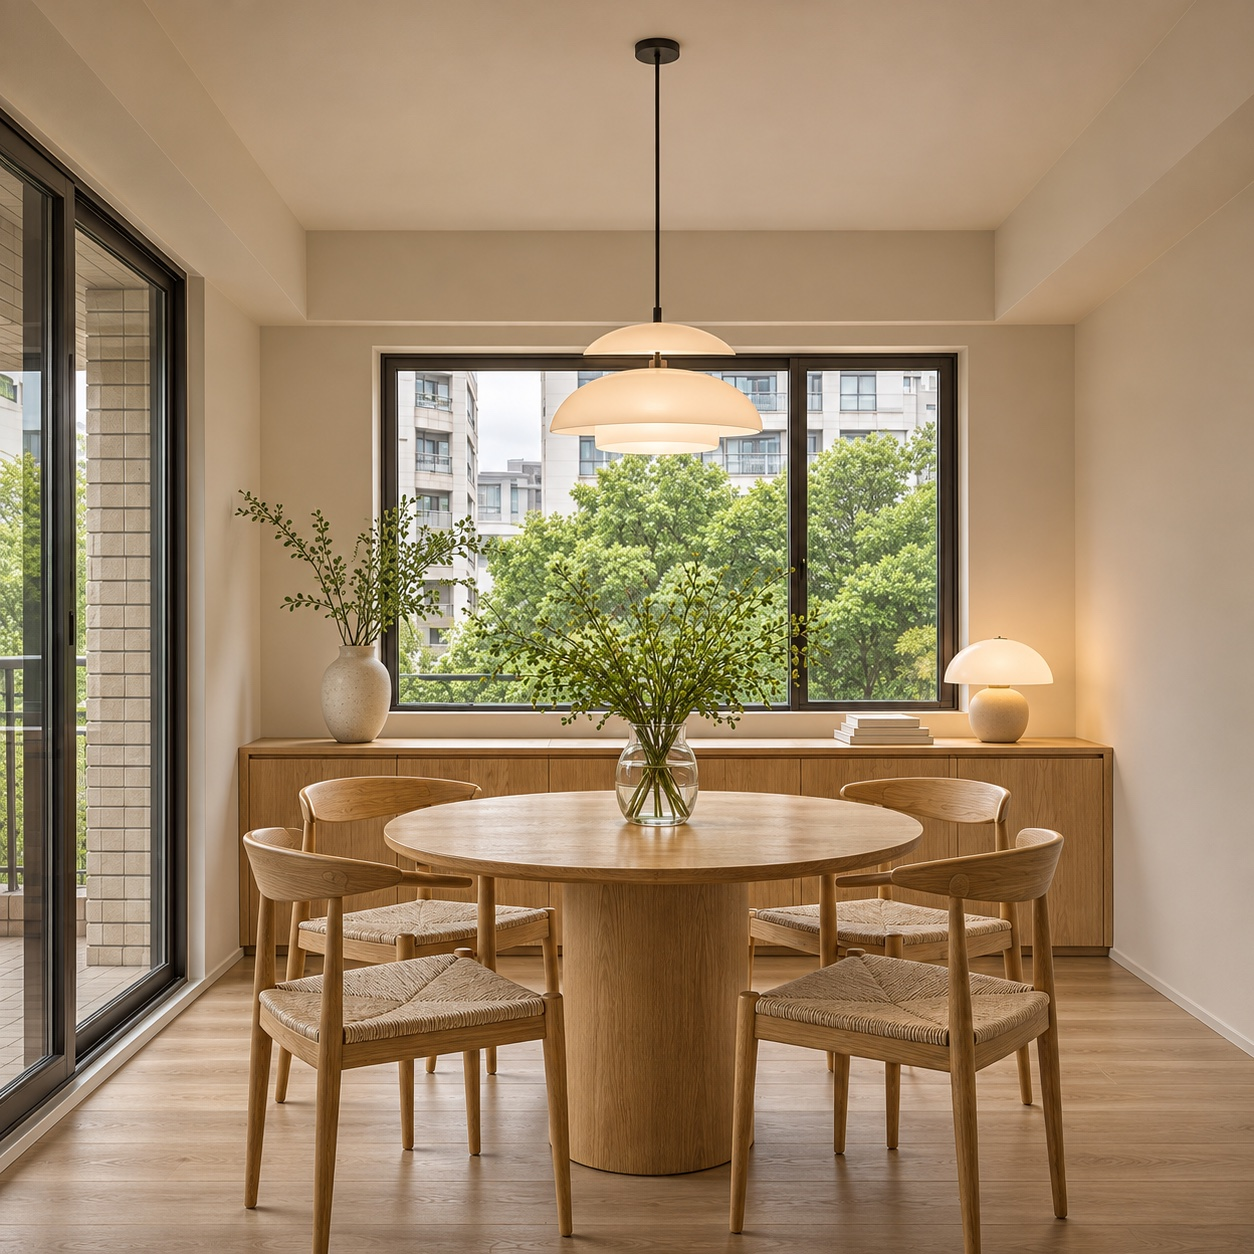
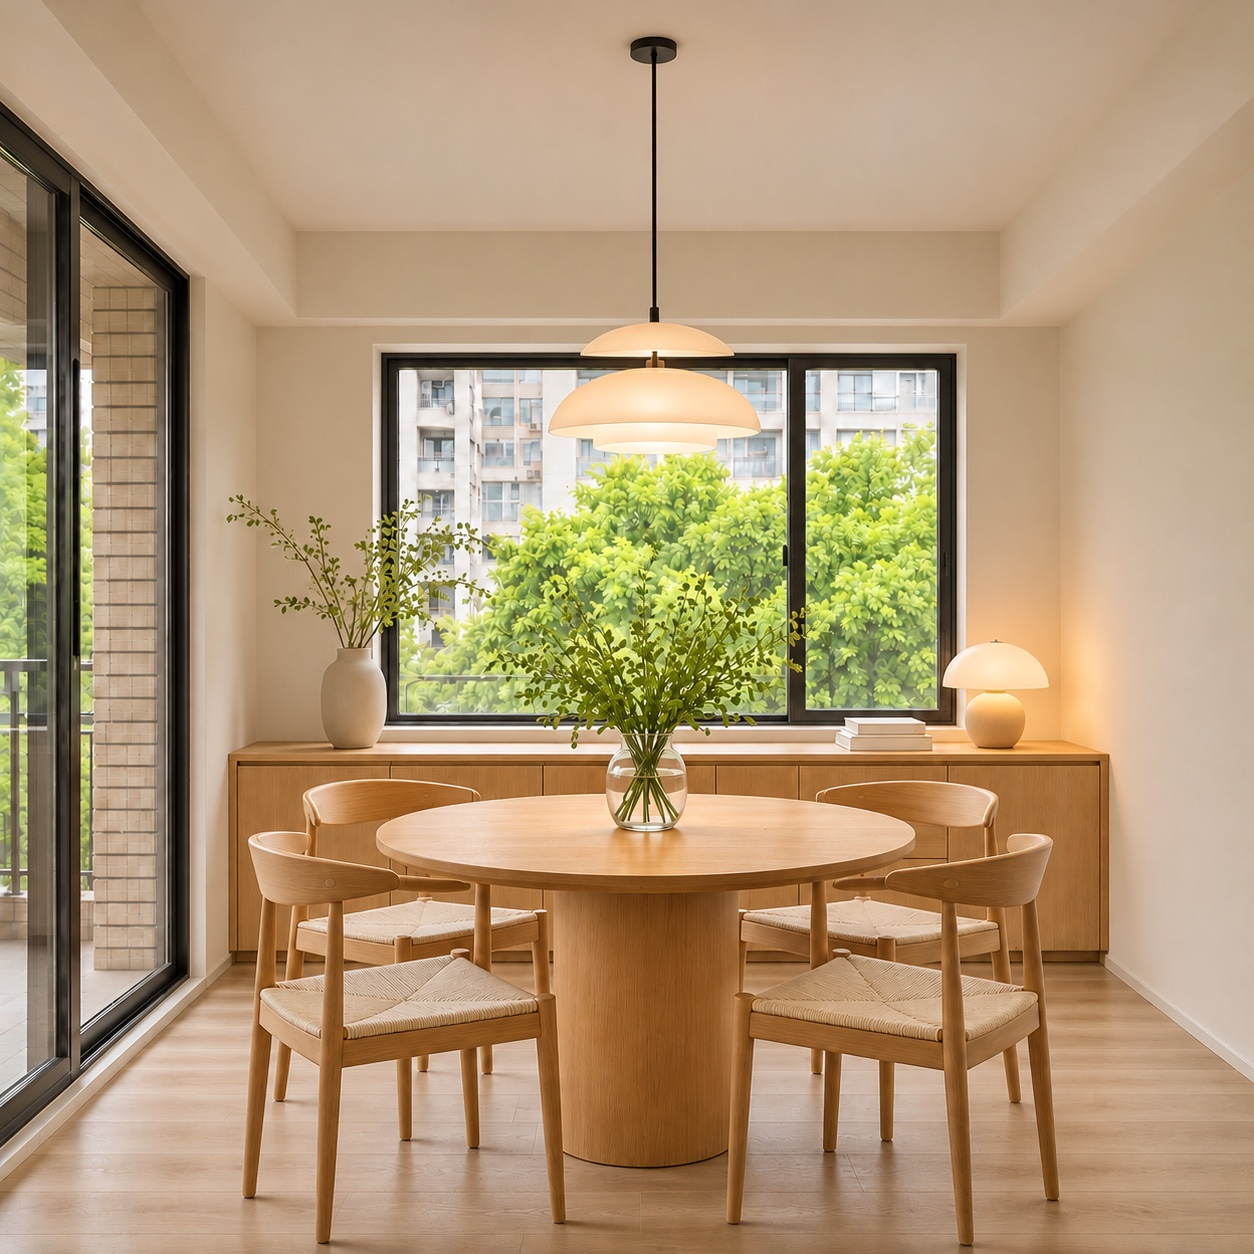
Restore all intermediate construction stages at full resolution

diff --git a/prototype/wireframe/room-scenes.js b/prototype/wireframe/room-scenes.js
@@ -10,6 +10,9 @@ export function roomScene(room, stage = stages.length - 1, openKitchen = false) 
   if (stage === stages.length - 1 && name !== 'open-kitchen') {
     return room === 0 ? './imagery/living-4.webp' : './imagery/hq-' + name + '-finished.jpg';
   }
+  if (name !== 'open-kitchen' && stage >= 1 && stage <= 3) {
+    return './imagery/hq-' + name + '-' + stage + '.jpg';
+  }
   return './imagery/' + name + '-' + stage + '.webp';
 }
 
